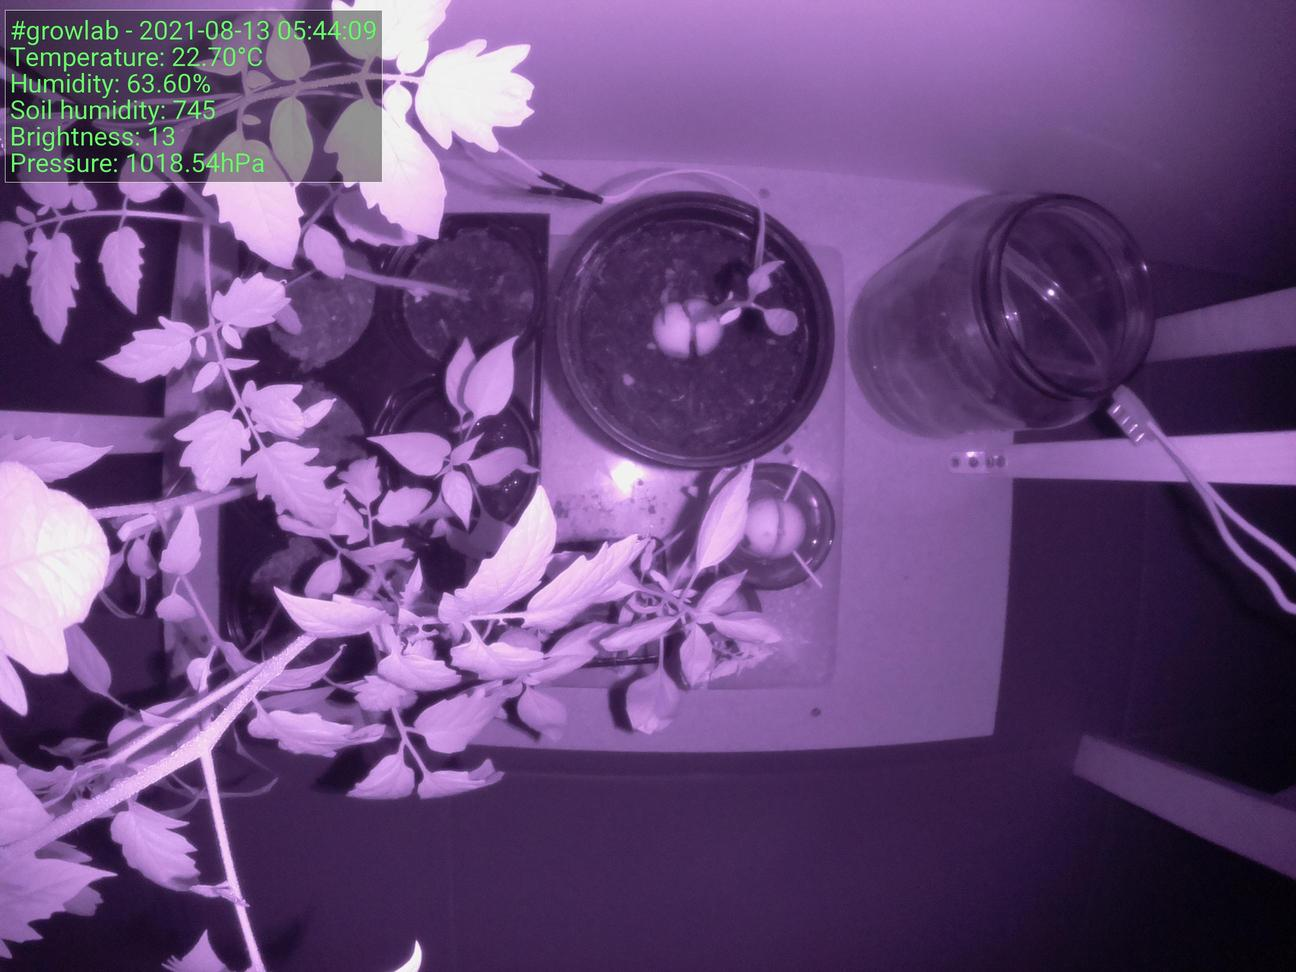
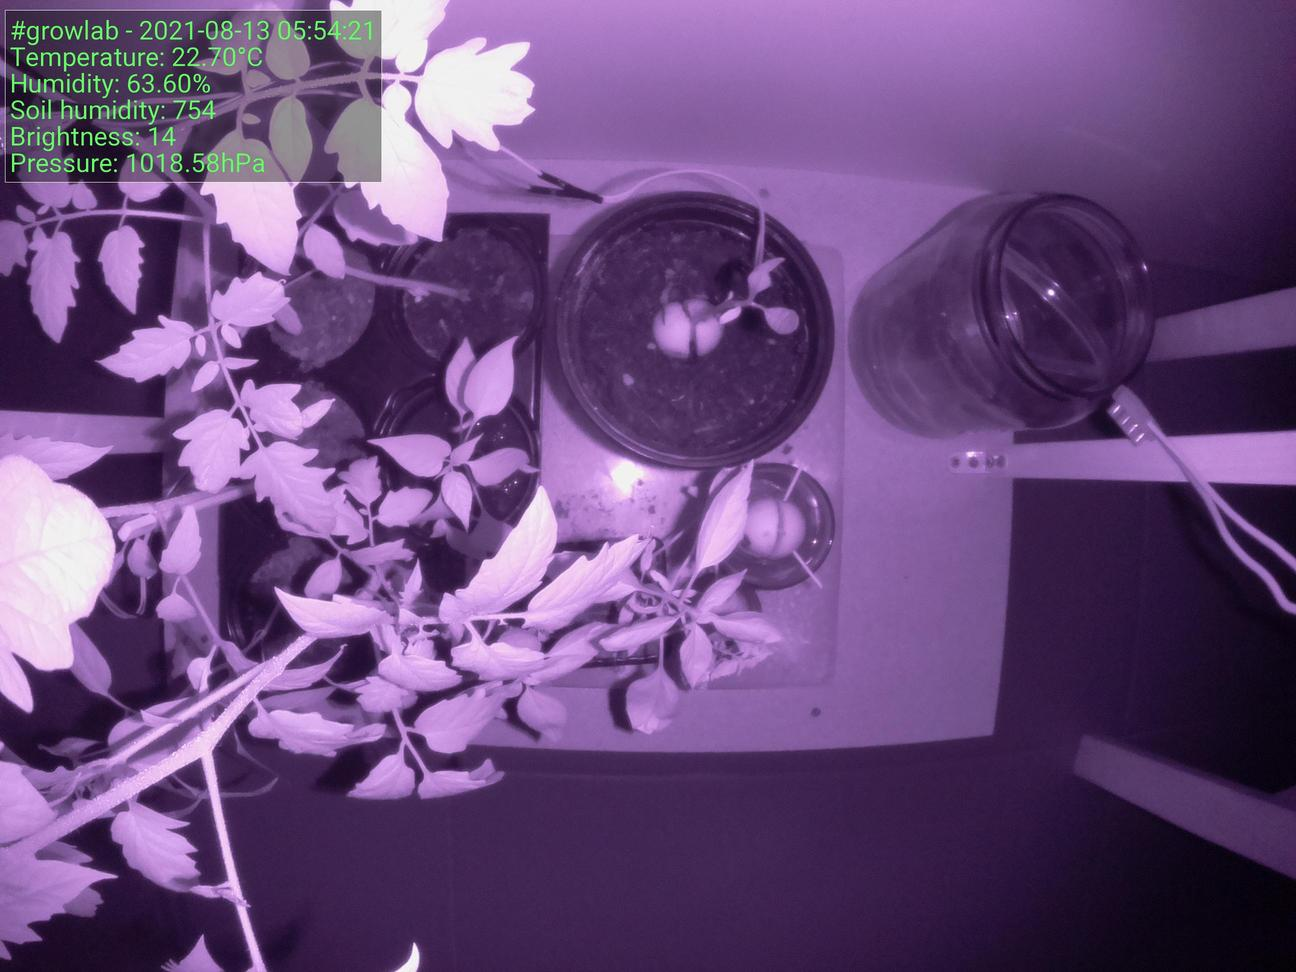
:bento: Update preview

diff --git a/index.html b/index.html
@@ -39,7 +39,7 @@
                     <tbody>
                         <tr>
                             <td>Time</td>
-                            <td>2021-08-13 05:44:09</td>
+                            <td>2021-08-13 05:54:21</td>
                         </tr>
                         <tr>
                             <td>Temperature</td>
@@ -55,7 +55,7 @@
 
                 <h5>Latest image</h5>
 		<div style="width: 85%;">
-	                <img class="figure-img img-fluid rounded" src="./preview.jpg?uid=1628826256.9947455">
+	                <img class="figure-img img-fluid rounded" src="./preview.jpg?uid=1628826868.5407178">
 		</div>
             </div>
         </div>
